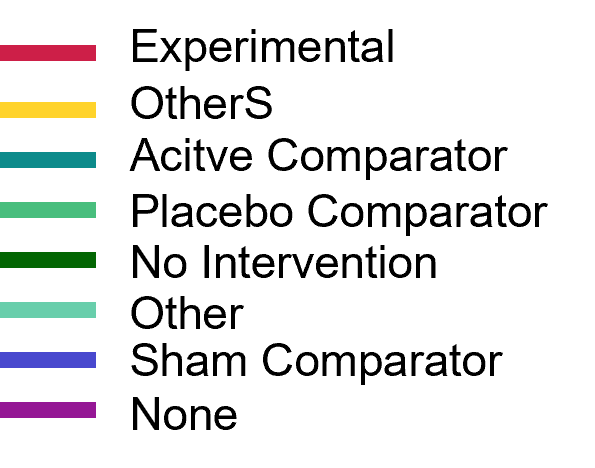
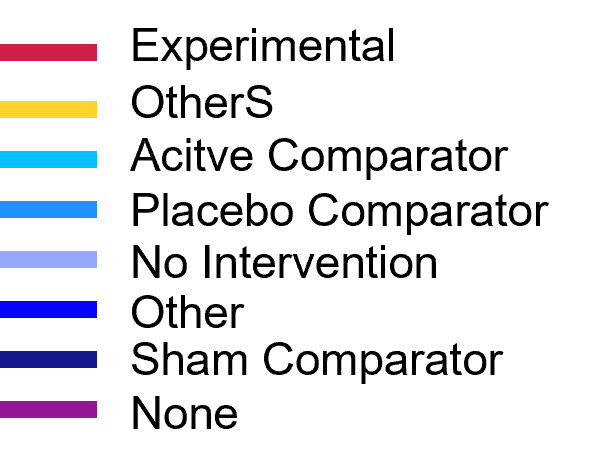
change color page and fix the size of radio and submit btn

diff --git a/src/App.css b/src/App.css
@@ -75,17 +75,37 @@ html {
   position: absolute;
   top: 1px;
   left: 5px;
-  color: rgb(199, 199, 199);
+  font-size: 26px;
+  color: rgb(10, 76, 138);
 }
 
 .questionIcon img {
   visibility: hidden;
-  width: 150px;
+  width: 170px;
   position: absolute;
-  top: 100%;
-  left: 0px;
+  top: 115%;
+  left: 5%;
+  background-color: white;
+  border: solid 3px rgb(10, 76, 138);
+  padding: 2px;
 }
 .questionIcon:hover img {
+  visibility: visible;
+}
+
+.questionIcon::before {
+  content: "";
+  position: absolute;
+  top: 70%;
+  right: 10%;
+  margin-left: -5px;
+  border-width: 10px;
+  border-style: solid;
+  border-color: transparent transparent rgb(10, 76, 138) transparent;
+  visibility: hidden;
+}
+
+.questionIcon:hover::before {
   visibility: visible;
 }
 
@@ -122,10 +142,16 @@ html {
 /* .modebar-group > a > svg::after {
   background-color: black;
   color: black;
+  background-color: #1b7692;
+  border: solid 100px blue;
 }
 .modebar-group > a > svg::before {
   background-color: black;
+  color: black;
+  background-color: #1b7692;
+  border: solid 100px blue;
 } */
+
 #moseekimg {
   padding-top: 15px;
 }

diff --git a/src/visualization/drawBranch.js b/src/visualization/drawBranch.js
@@ -4,7 +4,7 @@ export const armColorDict = {
   OtherS: "rgba(255, 210, 40, 1)", //gold
   "Active Comparator": "rgb(0, 191, 255)",
   "Placebo Comparator": "rgb(30, 144, 255)",
-  "No Intervention": "rgb(150, 165, 255)", // forest green
+  "No Intervention": "rgb(150, 165, 255)",
   Other: "rgb(0, 0, 255)", // 살짝 밝은 에메랄드
   "Sham Comparator": "rgb(20, 20, 140)", //blue
   None: "rgba(148, 20, 148, 1)", // violet

diff --git a/src/component/Search.css b/src/component/Search.css
@@ -39,11 +39,20 @@ form {
   align-items: center;
 }
 
+input[name="url"] {
+  flex-shrink: 2;
+}
+
+#clicked {
+  flex-shrink: 0;
+}
+
 #selectAPI {
   padding: 0;
   margin: 0 7px 0 7px;
   display: grid;
   grid-template-rows: 30px auto;
+  flex-shrink: 0;
 }
 
 #selectAPI input {

diff --git a/src/component/Button.css b/src/component/Button.css
@@ -4,10 +4,10 @@
   width: 20px;
   z-index: 1;
   font-size: 26px;
+  color: rgb(10, 76, 138);
   text-align: center;
   background-color: white;
   border: none;
-  color: rgb(10, 76, 138);
   cursor: pointer;
   padding: 1px;
   margin-right: 20px;

diff --git a/src/component/Example.css b/src/component/Example.css
@@ -1,6 +1,6 @@
 .hover-div {
   position: relative;
-  background-color: rgba(10, 76, 138, 0.671);
+  background-color: rgba(10, 76, 138, 1);
   border-radius: 5px;
   color: white;
   display: inline-block;
